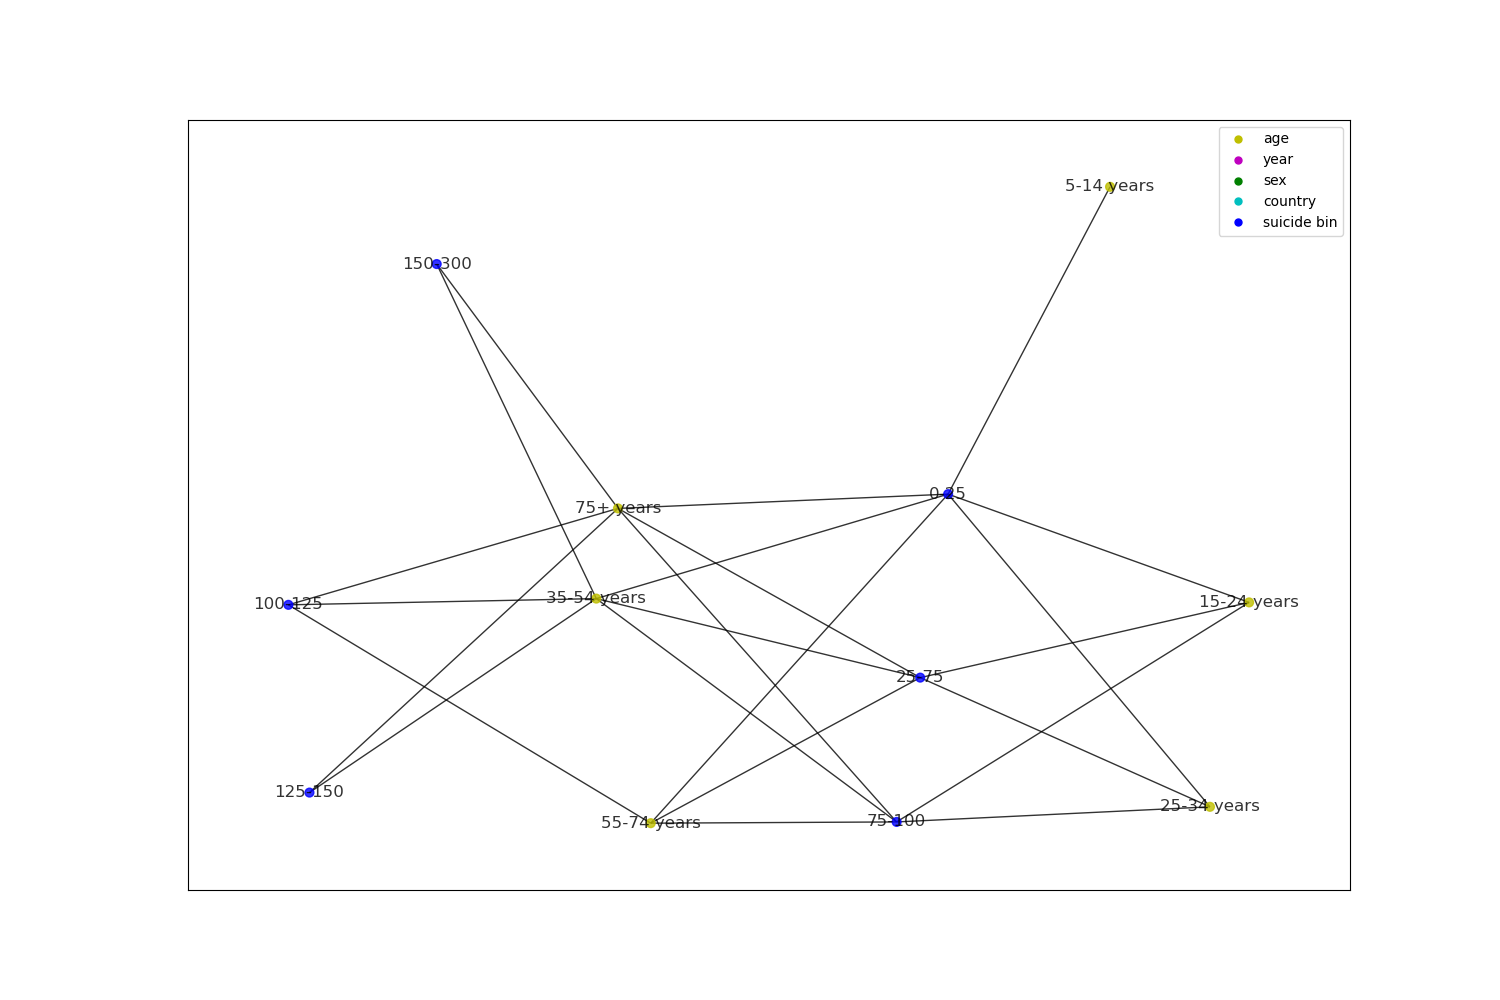
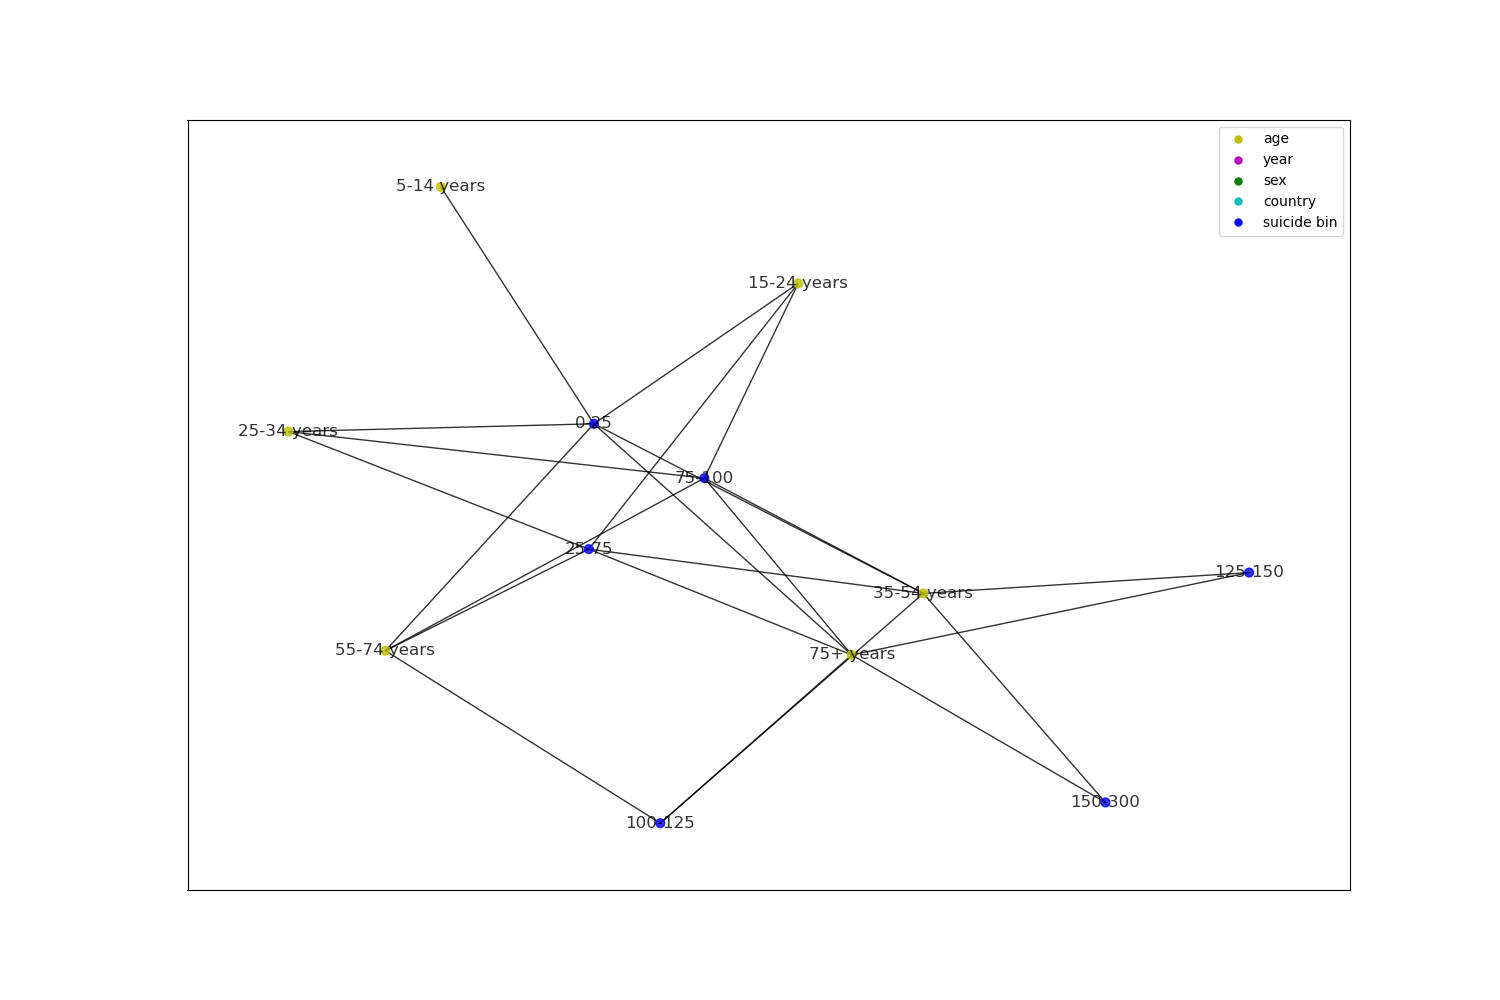
Added age risk projection

diff --git a/projections.py b/projections.py
@@ -24,7 +24,7 @@ def get_color_map(G, manager):
     return colormap
 
 
-def draw(G, manager, with_labels=False, figname=None):
+def draw(G, manager, with_labels=False, figname=None, show=True):
     pos = nx.nx_agraph.graphviz_layout(G, prog="neato")
     color_map = get_color_map(G, manager)
     plt.figure(1)
@@ -47,16 +47,28 @@ def draw(G, manager, with_labels=False, figname=None):
     figure.set_size_inches(15, 10)
     if figname:
         plt.savefig(figname)
-    plt.show()
+    if show:
+        plt.show()
+    plt.close()
 
 
 manager = GraphManager("datasets/suicide_rates_by_category.csv")
 
-# age to risk
+# age to risk bipartite
 age_risk_bipartite = manager.extractBipartiteGraph("age", "suicides_per_100k_bins")
 draw(
     age_risk_bipartite,
     manager,
     with_labels=True,
     figname="figures/age_risk_bipartite.png",
+    show=False,
+)
+
+age_risk_projection = manager.extractProjectionGraph(["age", "suicides_per_100k_bins"])
+draw(
+    age_risk_projection,
+    manager,
+    with_labels=True,
+    figname="figures/age_risk_projection.png",
+    show=False,
 )
